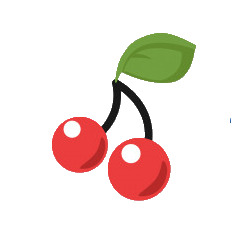
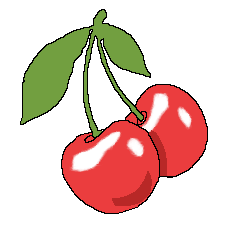
prijs verlagen/verhogen aangepast, fotos verandert

diff --git a/LibraryWindow/LibraryWindow/Pages/HulpSlotmachinePage.xaml b/LibraryWindow/LibraryWindow/Pages/HulpSlotmachinePage.xaml
@@ -68,9 +68,9 @@
                 <Label Text="= 200" TextColor="White" FontSize="24" FontAttributes="Bold" HorizontalTextAlignment="Center" VerticalTextAlignment="Center"></Label>
             </StackLayout>
             <StackLayout Grid.Row="3" Grid.Column="1" Orientation="Horizontal">
-                <Image WidthRequest="50" Source="{local:ImageResource LibraryWindow.Images.Slotmachine.Cherry.png}"/>
-                <Image WidthRequest="50" Source="{local:ImageResource LibraryWindow.Images.Slotmachine.Cherry.png}"/>
-                <Image WidthRequest="50" Source="{local:ImageResource LibraryWindow.Images.Slotmachine.Cherry.png}"/>
+                <Image WidthRequest="100" Source="{local:ImageResource LibraryWindow.Images.Slotmachine.Cherry.png}"/>
+                <Image WidthRequest="100" Source="{local:ImageResource LibraryWindow.Images.Slotmachine.Cherry.png}"/>
+                <Image WidthRequest="100" Source="{local:ImageResource LibraryWindow.Images.Slotmachine.Cherry.png}"/>
                 <Label Text="= 100" TextColor="White" FontSize="24" FontAttributes="Bold" HorizontalTextAlignment="Center" VerticalTextAlignment="Center"></Label>
             </StackLayout>
         </Grid>

diff --git a/LibraryWindow/LibraryWindow/Pages/SlotmachinePage.xaml.cs b/LibraryWindow/LibraryWindow/Pages/SlotmachinePage.xaml.cs
@@ -134,7 +134,7 @@ namespace LibraryWindow.Pages
             if(Tokens >= 100)
             {
                 AllowedToClick = false;
-                await ApiWrapper.UpdateTokens(-100, _sender);
+                await ApiWrapper.UpdateTokens(-50, _sender);
 
                 await Slotmachine.Activate();
 
@@ -155,7 +155,7 @@ namespace LibraryWindow.Pages
             {
                 bool result = await ApiWrapper.GetUserInfo();
                 OnPropertyChanged("Tokens");
-                if (Tokens >= 100)
+                if (Tokens >= 50)
                 {
                     AllowedToClick = true;
                 }
